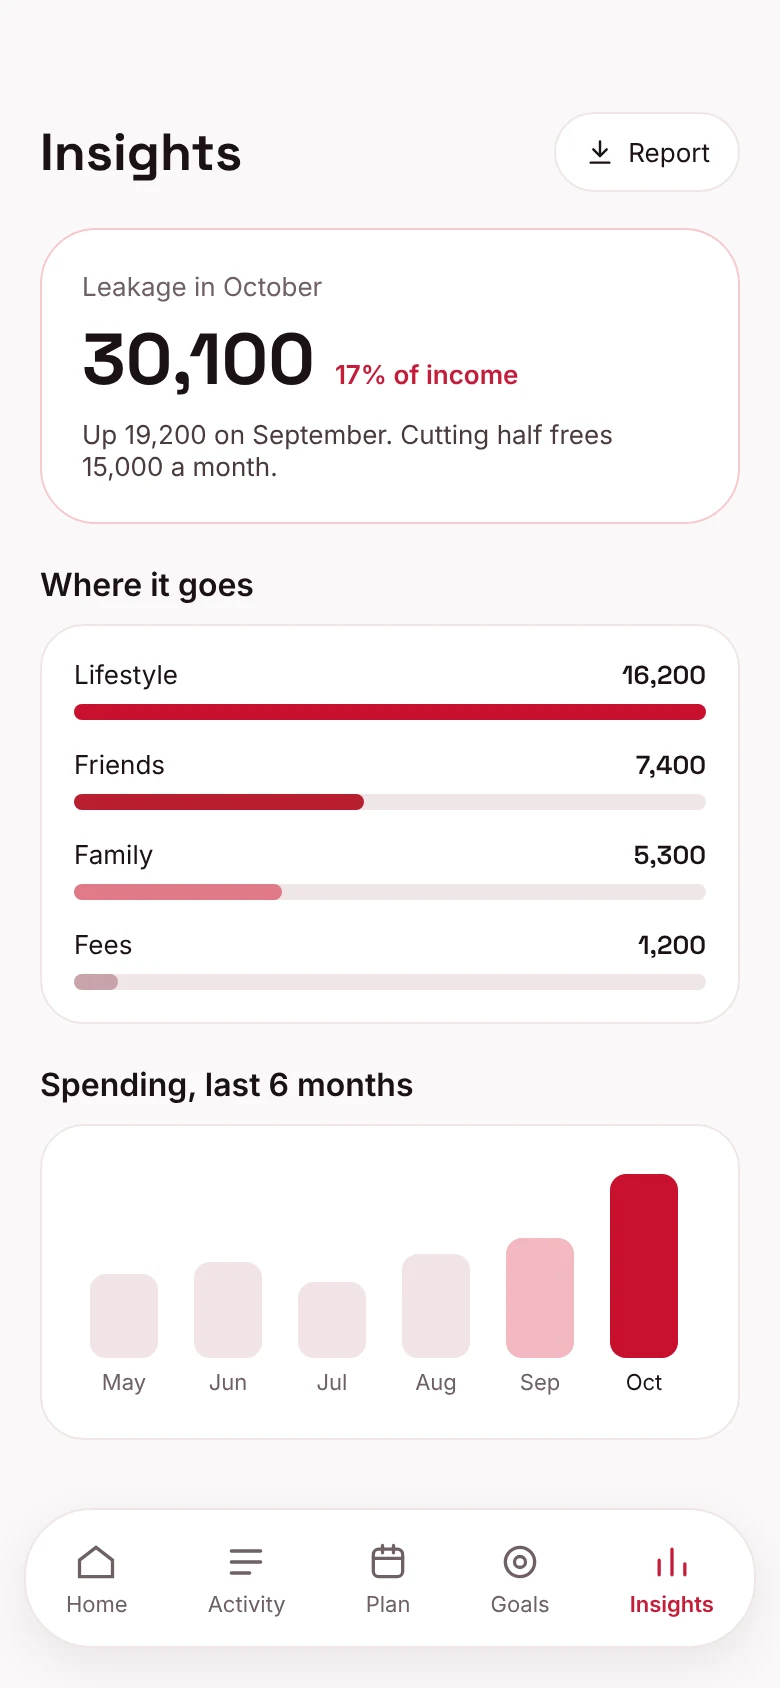
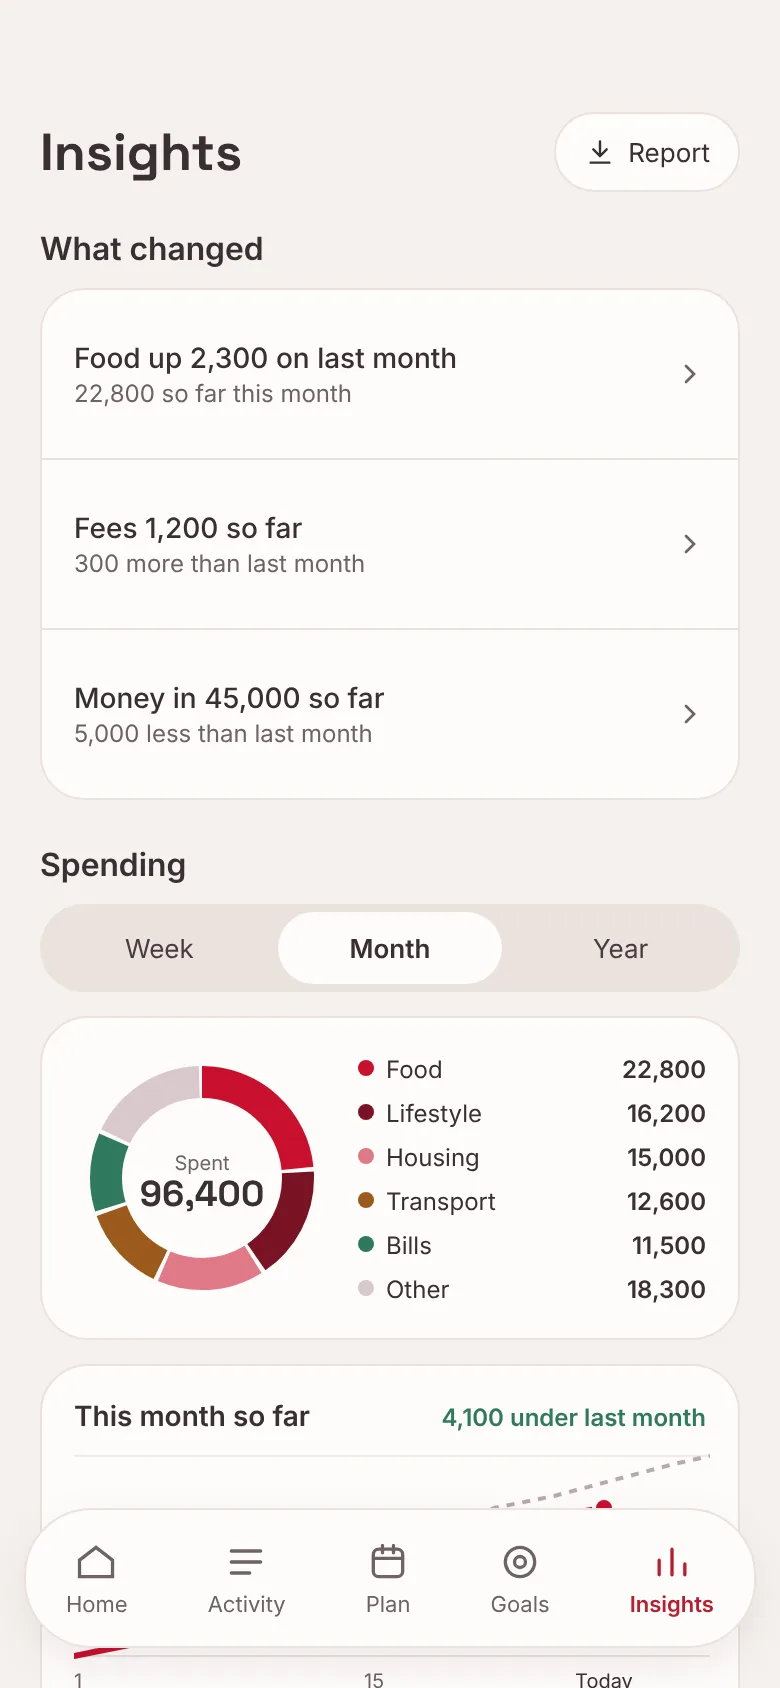
feat: newer Insights screen, features and a star button (#29)

diff --git a/src/data/site.ts b/src/data/site.ts
@@ -13,6 +13,8 @@ export const site = {
 export const links = {
   github: org,
   releases: `${org}/pesaclarity-app/releases`,
+  // The app repo: the star that shows people the project is alive.
+  star: `${org}/pesaclarity-app`,
   brand: `${org}/docs/blob/main/BRAND.md`,
   contributing: `${org}/pesaclarity-web/blob/main/CONTRIBUTING.md`,
   parserContributing: `${org}/ujumbe-parsers/blob/main/CONTRIBUTING.md`,
